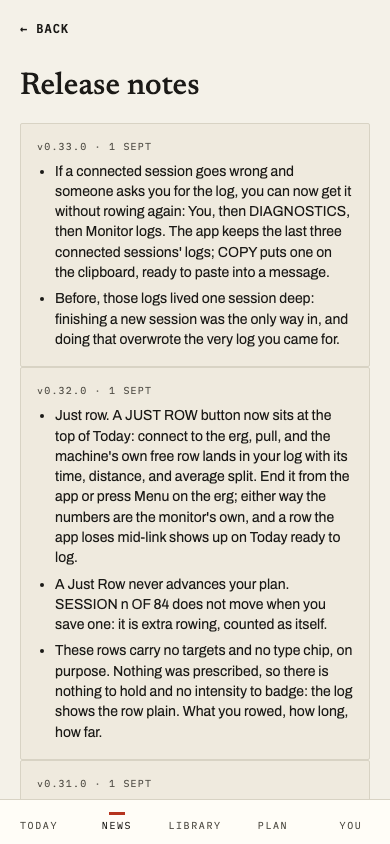
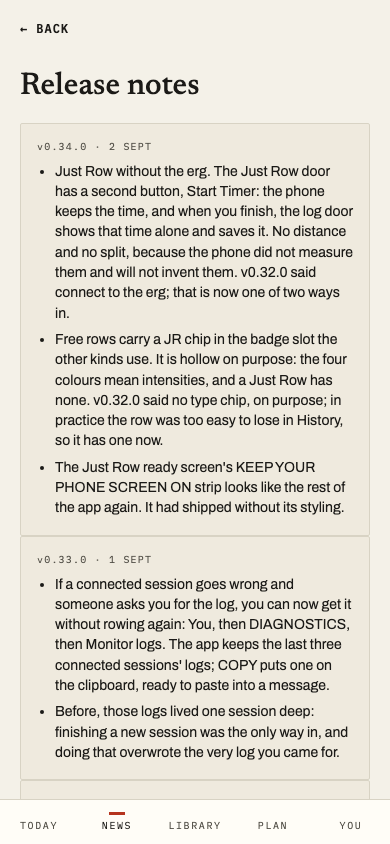
v0.34.0 release notes: Just Row without the erg, the JR chip, the ready-screen strip (#270)
Claude-Session: https://claude.ai/code/session_013Zebvh9Rq7cXCKg9k1TN2b

Changed region(s): [[0.0615, 0.1848, 0.9231, 0.955]]

diff --git a/app/e2e/news.spec.ts b/app/e2e/news.spec.ts
@@ -184,39 +184,40 @@ test("/news/releases lists every version, newest first", async ({ page }) => {
   // deliberately fails here — that is this pin's job, and it is why the
   // title no longer names a number that goes stale every tag.
   const versions = page.locator(".news-release-version");
-  await expect(versions).toHaveCount(32);
+  await expect(versions).toHaveCount(33);
   await expect(versions.nth(0)).toContainText(NEWEST_RELEASE_VERSION);
-  await expect(versions.nth(1)).toContainText("v0.32.0");
-  await expect(versions.nth(2)).toContainText("v0.31.0");
-  await expect(versions.nth(3)).toContainText("v0.30.0");
-  await expect(versions.nth(4)).toContainText("v0.29.0");
-  await expect(versions.nth(5)).toContainText("v0.28.0");
-  await expect(versions.nth(6)).toContainText("v0.27.0");
-  await expect(versions.nth(7)).toContainText("v0.26.0");
-  await expect(versions.nth(8)).toContainText("v0.25.0");
-  await expect(versions.nth(9)).toContainText("v0.24.0");
-  await expect(versions.nth(10)).toContainText("v0.23.0");
-  await expect(versions.nth(11)).toContainText("v0.22.0");
-  await expect(versions.nth(12)).toContainText("v0.21.0");
-  await expect(versions.nth(13)).toContainText("v0.20.0");
-  await expect(versions.nth(14)).toContainText("v0.19.1");
-  await expect(versions.nth(15)).toContainText("v0.19.0");
-  await expect(versions.nth(16)).toContainText("v0.18.1");
-  await expect(versions.nth(17)).toContainText("v0.18.0");
-  await expect(versions.nth(18)).toContainText("v0.17.0");
-  await expect(versions.nth(19)).toContainText("v0.16.0");
-  await expect(versions.nth(20)).toContainText("v0.15.0");
-  await expect(versions.nth(21)).toContainText("v0.14.0");
-  await expect(versions.nth(22)).toContainText("v0.13.0");
-  await expect(versions.nth(23)).toContainText("v0.12.0");
-  await expect(versions.nth(24)).toContainText("v0.11.0");
-  await expect(versions.nth(25)).toContainText("v0.10.0");
-  await expect(versions.nth(26)).toContainText("v0.9.0");
-  await expect(versions.nth(27)).toContainText("v0.8.0");
-  await expect(versions.nth(28)).toContainText("v0.7.0");
-  await expect(versions.nth(29)).toContainText("v0.5.1");
-  await expect(versions.nth(30)).toContainText("v0.5.0");
-  await expect(versions.nth(31)).toContainText("v0.4.0");
+  await expect(versions.nth(1)).toContainText("v0.33.0");
+  await expect(versions.nth(2)).toContainText("v0.32.0");
+  await expect(versions.nth(3)).toContainText("v0.31.0");
+  await expect(versions.nth(4)).toContainText("v0.30.0");
+  await expect(versions.nth(5)).toContainText("v0.29.0");
+  await expect(versions.nth(6)).toContainText("v0.28.0");
+  await expect(versions.nth(7)).toContainText("v0.27.0");
+  await expect(versions.nth(8)).toContainText("v0.26.0");
+  await expect(versions.nth(9)).toContainText("v0.25.0");
+  await expect(versions.nth(10)).toContainText("v0.24.0");
+  await expect(versions.nth(11)).toContainText("v0.23.0");
+  await expect(versions.nth(12)).toContainText("v0.22.0");
+  await expect(versions.nth(13)).toContainText("v0.21.0");
+  await expect(versions.nth(14)).toContainText("v0.20.0");
+  await expect(versions.nth(15)).toContainText("v0.19.1");
+  await expect(versions.nth(16)).toContainText("v0.19.0");
+  await expect(versions.nth(17)).toContainText("v0.18.1");
+  await expect(versions.nth(18)).toContainText("v0.18.0");
+  await expect(versions.nth(19)).toContainText("v0.17.0");
+  await expect(versions.nth(20)).toContainText("v0.16.0");
+  await expect(versions.nth(21)).toContainText("v0.15.0");
+  await expect(versions.nth(22)).toContainText("v0.14.0");
+  await expect(versions.nth(23)).toContainText("v0.13.0");
+  await expect(versions.nth(24)).toContainText("v0.12.0");
+  await expect(versions.nth(25)).toContainText("v0.11.0");
+  await expect(versions.nth(26)).toContainText("v0.10.0");
+  await expect(versions.nth(27)).toContainText("v0.9.0");
+  await expect(versions.nth(28)).toContainText("v0.8.0");
+  await expect(versions.nth(29)).toContainText("v0.7.0");
+  await expect(versions.nth(30)).toContainText("v0.5.1");
+  await expect(versions.nth(31)).toContainText("v0.5.0");
+  await expect(versions.nth(32)).toContainText("v0.4.0");
 });
 
 test("item 1 / round 4: opening an article from a scrolled News feed lands the reader at the top of its OWN scroller, and ← BACK now restores News's own scroll position (CL item: News scroll memory)", async ({

diff --git a/app/src/news/content/releaseNotes.ts b/app/src/news/content/releaseNotes.ts
@@ -5,6 +5,28 @@ import type { ReleaseNote } from "./types";
 // would notice, and internal-only releases are skipped.
 export const RELEASE_NOTES: ReleaseNote[] = [
   {
+    // v0.34.0 (2026-09-02): range v0.33.0..main = 8 commits, accounted per
+    // RF15 (`git log v0.33.0..origin/main --oneline`, no --merges). Noted:
+    // #268 (items 1 and 2, the phone-timed Just Row and the JR chip — and
+    // inside them the two sentences ROADMAP owed, retiring v0.32.0's
+    // "connect to the erg" and "no type chip, on purpose") and #265 (item
+    // 3, the ready screen's strip, a visible fix). No note: #267 (Wave F
+    // PR 3a, instrument-only — "tester impact: none" in its own fold),
+    // #269 (Wave E PR1.75a, server half, dark), #257 (Wave E PR1.5, dark by
+    // its own fold), #266/#264/#262 (docs). Deliberately NOT noted: the
+    // stored provenance column (#268) — every row a rower can see already
+    // read PM5 / TIMER / LOGGED BY HAND, and no word changed. "A Just Row
+    // never advances your plan" (v0.32.0) still stands; substitution is a
+    // later PR and its note retires that line when it ships.
+    version: "v0.34.0",
+    date: "2026-09-02",
+    items: [
+      "Just Row without the erg. The Just Row door has a second button, Start Timer: the phone keeps the time, and when you finish, the log door shows that time alone and saves it. No distance and no split, because the phone did not measure them and will not invent them. v0.32.0 said connect to the erg; that is now one of two ways in.",
+      "Free rows carry a JR chip in the badge slot the other kinds use. It is hollow on purpose: the four colours mean intensities, and a Just Row has none. v0.32.0 said no type chip, on purpose; in practice the row was too easy to lose in History, so it has one now.",
+      "The Just Row ready screen's KEEP YOUR PHONE SCREEN ON strip looks like the rest of the app again. It had shipped without its styling.",
+    ],
+  },
+  {
     // v0.33.0 (2026-09-01): range v0.32.0..main = #258 alone, accounted per
     // RF15 (`git log v0.32.0..origin/main --oneline`); #262 (process docs)
     // needs no note if it lands in range. The PM TRIAD gate on #258 ruled

diff --git a/app/e2e/releasePin.ts b/app/e2e/releasePin.ts
@@ -16,4 +16,4 @@
  *  claims.
  *
  *  Bump alongside each release-notes PR. */
-export const NEWEST_RELEASE_VERSION = "v0.33.0";
+export const NEWEST_RELEASE_VERSION = "v0.34.0";
